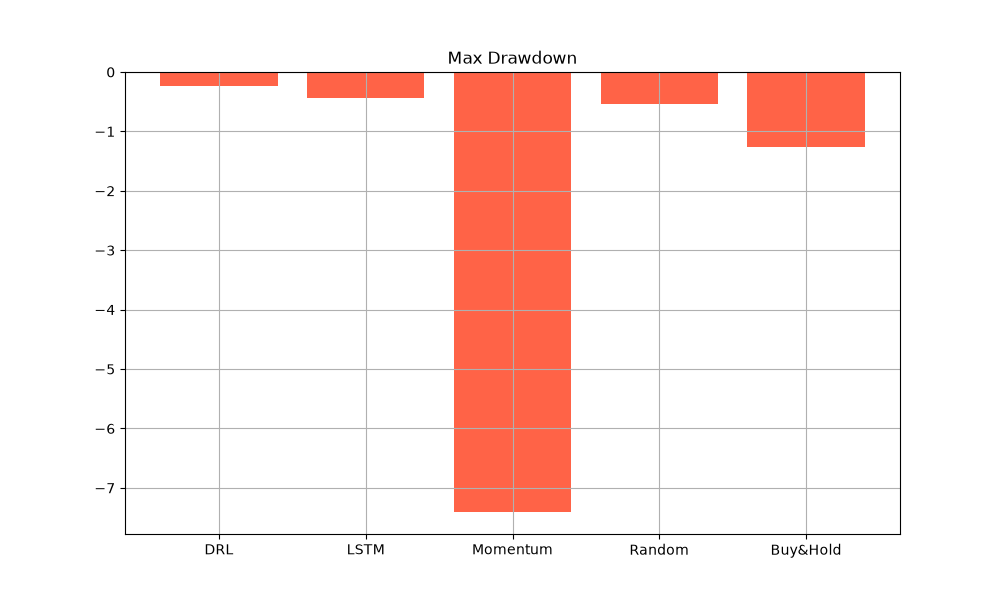
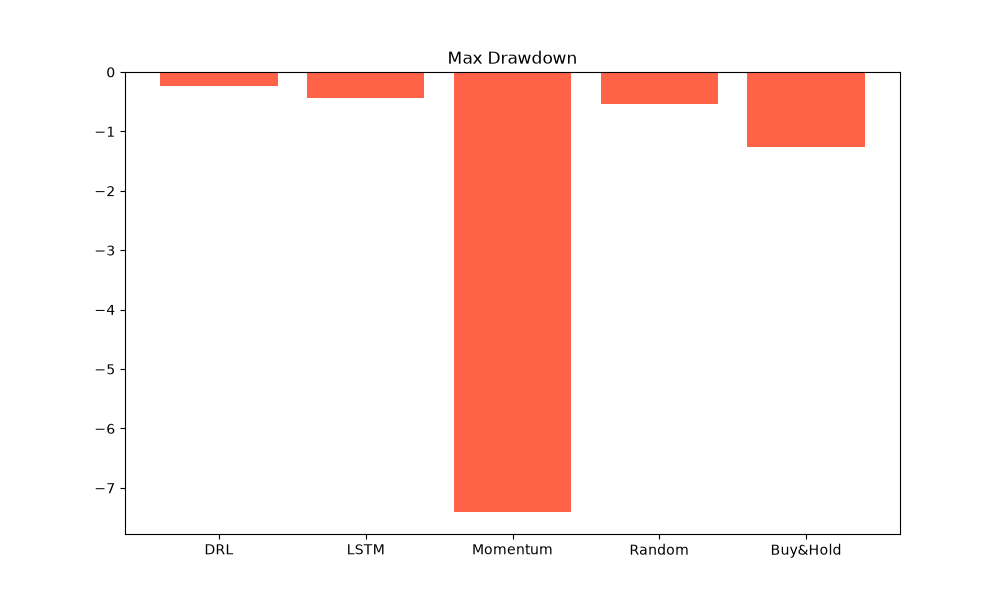
benchmark v4 -> gra^h correction

diff --git a/src/benchmark/benchmark.py b/src/benchmark/benchmark.py
@@ -50,14 +50,19 @@ def ComputeNetReturns(returns, actions, cost_rate=0.001):
 
 # --- Graphs ---#
 def cumulative_return(strategies):
-    plt.figure(figsize=(12,8))
-    for name, (gross, net) in strategies.items():
-        plt.plot(np.cumsum(gross), label=f"{name} (gross)")
-        plt.plot(np.cumsum(net), label=f"{name} (10bps)", linestyle='--', alpha=0.6)
+    plt.figure(figsize=(12, 8))
+    colors = plt.cm.tab10.colors
+
+    for i, (name, (gross, net)) in enumerate(strategies.items()):
+        color = colors[i]
+        plt.plot(np.cumsum(gross), label=f"{name} (gross)", color=color, linestyle='-')
+        plt.plot(np.cumsum(net), label=f"{name} (10bps)", color=color, linestyle='--', alpha=0.6)
+
     plt.title("Cumulative Returns (Gross vs Net of Costs)")
+    plt.xlabel("Time steps") #(hourly, concatenated: AAPL + TLT + BTC-USD)
+    plt.ylabel("Cumulative log-return") #(sum, not %)
     plt.legend(fontsize=8)
     plt.axhline(0, color='black', linewidth=0.5)
-    plt.grid()
     plt.savefig(os.path.join(FILE_SAVE_IMG, "cumulative_returns.png"))
     plt.close()
     print("Graph printed -> 'Cumulative Returns'")
@@ -68,7 +73,6 @@ def sharpe_graph(strategies, names):
     plt.bar(names, sharpe, color='steelblue')
     plt.title("Sharpe Ratio")
     plt.axhline(0, color='black', linewidth=0.5)
-    plt.grid()
     plt.savefig(os.path.join(FILE_SAVE_IMG, "sharpe.png"))
     plt.close()
     print("Graph printed -> 'Sharpe Ratio'")
@@ -79,7 +83,6 @@ def sortino_graph(strategies, names):
     plt.bar(names, sortino, color='seagreen')
     plt.title("Sortino Ratio")
     plt.axhline(0, color='black', linewidth=0.5)
-    plt.grid()
     plt.savefig(os.path.join(FILE_SAVE_IMG, "sortino.png"))
     plt.close()
     print("Graph printed -> 'Sortino Ratio'")
@@ -89,7 +92,6 @@ def max_drawdown_graph(strategies, names):
     plt.figure(figsize=(10, 6))
     plt.bar(names, mdd, color='tomato')
     plt.title("Max Drawdown")
-    plt.grid()
     plt.savefig(os.path.join(FILE_SAVE_IMG, "max_drawdown.png"))
     plt.close()
     print("Graph printed -> 'Max Drawdown'")
